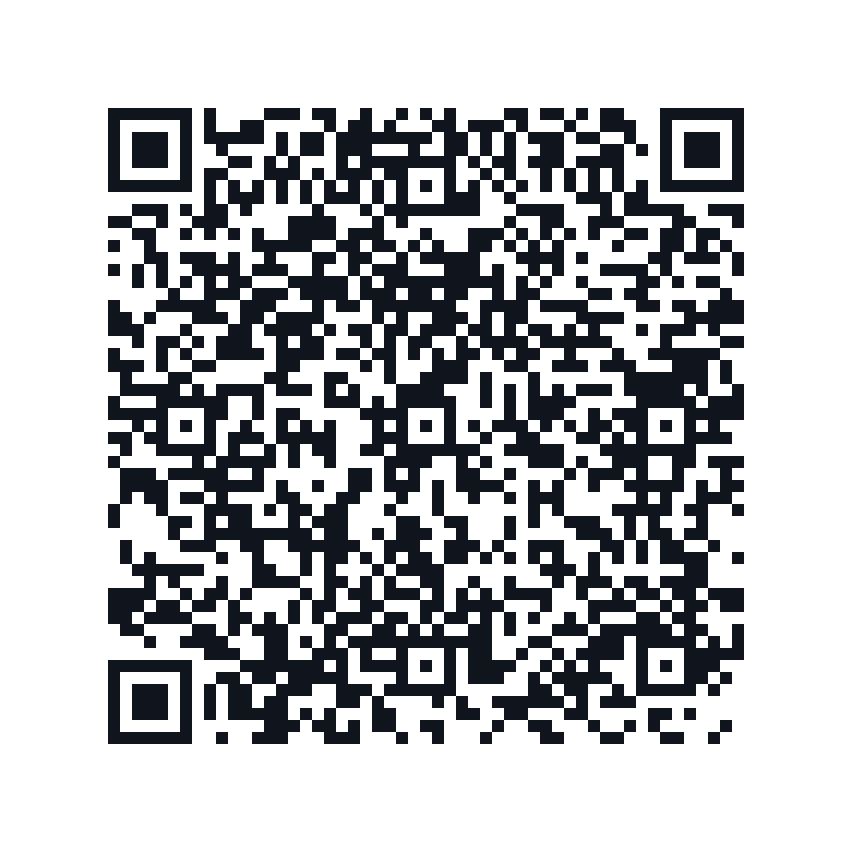
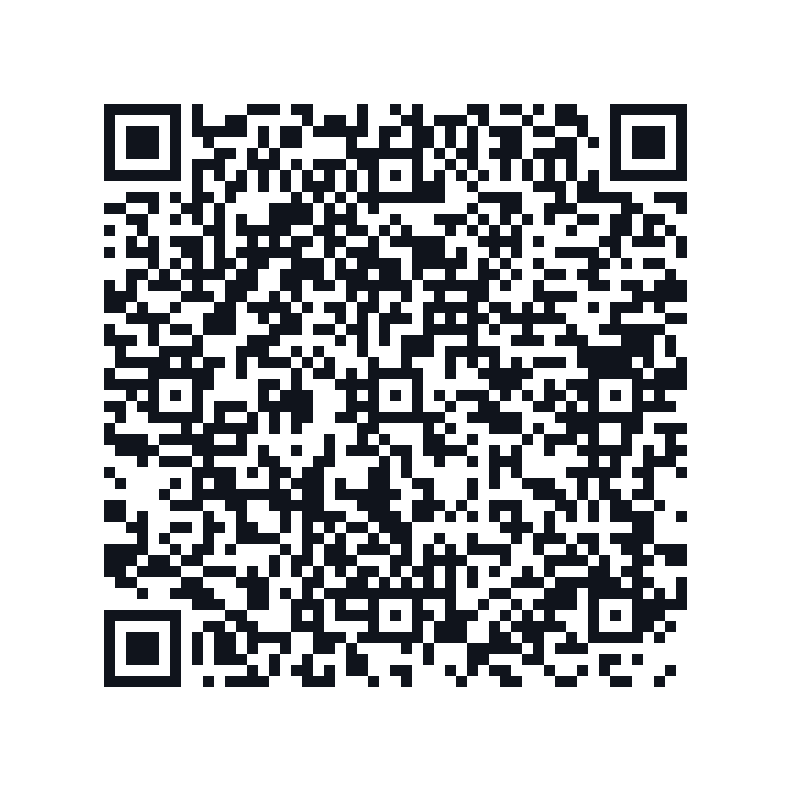
docs: v2.0.4 README 测试统计/扫码章节修正 + 重生成有效二维码(修复卡片非整数缩放导致扫不出)

Changed region(s): [[0.1214, 0.1214, 0.8799, 0.8799], [0.5461, 0.5158, 0.5765, 0.5461]]

diff --git a/README.md b/README.md
@@ -1,11 +1,21 @@
 # 轻听 LiteListen · Android 局域网音乐播放器
 
-> **当前版本：v2.0.3（Jellyfin + 高保真版，推荐安装）** ｜ 仓库：https://github.com/naboluoye/litelisten
-> [v2.0.3 Release 下载页](https://github.com/naboluoye/litelisten/releases/tag/v2.0.3) ｜ [v2.0.2（上一版）](https://github.com/naboluoye/litelisten/releases/tag/v2.0.2) ｜ [v1.0.0（历史骨架版）](https://github.com/naboluoye/litelisten/releases/tag/v1.0.0)
+> **当前版本：v2.0.4（DLNA 群晖连接修复版，推荐安装）** ｜ 仓库：https://github.com/naboluoye/litelisten
+> [v2.0.4 Release 下载页](https://github.com/naboluoye/litelisten/releases/tag/v2.0.4) ｜ [v2.0.3（上一版）](https://github.com/naboluoye/litelisten/releases/tag/v2.0.3) ｜ [v2.0.2](https://github.com/naboluoye/litelisten/releases/tag/v2.0.2) ｜ [v1.0.0（历史骨架版）](https://github.com/naboluoye/litelisten/releases/tag/v1.0.0)
 > 包名 `com.litelisten.player` ｜ minSdk 26（Android 8.0）/ targetSdk 35 ｜ Kotlin 2.1.0 + Compose + Media3 + Room
 > 零账号、零广告、零遥测、零外网请求：所有网络目标在请求发出前强制校验为局域网私网地址。
 
-**版本沿革**：v1.0.0 只是 P0 工程骨架；**v2.0.0 把 P1–P7 全部实现为真实功能**；v2.0.1 修掉「装完曲库为空」「WebDAV 子目录 404」等运行时缺陷；v2.0.2 修复局域网设备发现与根目录浏览；**v2.0.3 新增 Jellyfin 媒体服务器接入、把账号密码前置到添加向导、并加入无损高保真播放，是当前推荐安装的版本**。所有版本使用同一把签名密钥，**已装旧版可直接覆盖升级，数据不丢**。
+**版本沿革**：v1.0.0 只是 P0 工程骨架；**v2.0.0 把 P1–P7 全部实现为真实功能**；v2.0.1 修掉「装完曲库为空」「WebDAV 子目录 404」等运行时缺陷；v2.0.2 修复局域网设备发现与根目录浏览；v2.0.3 新增 Jellyfin 媒体服务器接入、把账号密码前置到添加向导、并加入无损高保真播放；**v2.0.4 修复 Jellyfin 扫描到 0 首、DLNA/群晖连接失败，并加入出品方文案，是当前推荐安装的版本**。所有版本使用同一把签名密钥，**已装旧版可直接覆盖升级，数据不丢**。
+
+### v2.0.4 新增与修复（实机反馈）
+
+| 反馈 | 根因 | 这一版做了什么 |
+|---|---|---|
+| Jellyfin（如 `SRV-2019`）能识别、但「加入曲库」扫描结果是 0 首 | 旧版扫描走层级 `walk`：先列 `/Users/{id}/Views`（媒体库），再逐层按 `ParentId` 浏览。Jellyfin 音乐库顶层往往是 `MusicArtist`/`UserView`，而某些账号配置下 `Views` 或层级 `Items` 查询直接返回空，导致递归到底一个音频都没拿到 | 扫描改成直接调 Jellyfin 的**递归搜索接口** `Recursive=true&IncludeItemTypes=Audio`，一次性拉取该账号能访问的全部音频，完全绕开 Views / 层级结构。手动翻目录浏览仍走层级，不影响使用 |
+| DLNA 媒体服务器（群晖 `swf_nas`）搜得到却连不上，填用户名密码也没用 | ① DLNA/UPnP 是**匿名协议**，旧版添加表单却对 DLNA 也强制要求账号密码，用户被卡死在凭据上；② DLNA 的 SOAP 控制请求默认走系统「默认网络」，手机在「Wi-Fi 无互联网 + 开蜂窝」时默认网络是蜂窝，192.168.x.x 的控制地址全部不可达 | ① DLNA 添加表单**不再要求、也不再发送**账号密码（已加单测锁定，防回退）；② 新增 `LocalNetworkHolder`，发现阶段记录真正的局域网 Network，DLNA 的控制请求、设备描述请求都强制绑定这张网卡，杀进程重启后也能即时解析；③ SOAP 控制请求补 `Accept` / `Connection` 头，增强群晖兼容 |
+| 希望 App 里说明出品方 | — | 设置页「关于」区加入出品方文字：「本软件由风起时出品，功能是为解决手机本地音频的播放，免费无广告，如有需要敬请使用」 |
+
+**DLNA / 群晖实操提示**：群晖 DSM 的「媒体服务器」默认就是匿名 DLNA，直接点「测试连接」即可，不用填凭据；若仍连不上，多半是手机与 NAS 不在同一 Wi-Fi、或路由器开了 AP 隔离，可在添加向导里手动填设备控制地址（形如 `http://192.168.x.x:端口/…/Control`，端口通常是 50001/8200 之类）。
 
 ### v2.0.3 新增与修复（实机反馈）
 
@@ -44,12 +54,12 @@
 
 ---
 
-## 扫码下载（v2.0.3）
+## 扫码下载（v2.0.4）
 
-![轻听 v2.0.3 扫码下载](docs/qr-download.png)
+![轻听 v2.0.4 扫码下载](docs/qr-download.png)
 
-- **扫码直达 APK**：<https://github.com/naboluoye/litelisten/releases/download/v2.0.3/LiteListen-v2.0.3.apk>
-- 版本说明与 SHA-256：[GitHub Release v2.0.3](https://github.com/naboluoye/litelisten/releases/tag/v2.0.3)
+- **扫码直达 APK**：<https://github.com/naboluoye/litelisten/releases/download/v2.0.4/LiteListen-v2.0.4.apk>
+- 版本说明与 SHA-256：[GitHub Release v2.0.4](https://github.com/naboluoye/litelisten/releases/tag/v2.0.4)
 - 可转发的下载卡片：[docs/qr-download-card.png](docs/qr-download-card.png)
 - 下载后在系统里允许「安装未知来源」即可安装。二维码采用 30% 纠错等级并保留静默区，缩放或打印后仍可识别（已用解码器实测校验）。
 
@@ -84,17 +94,17 @@
 
 ---
 
-## 3. 已真实跑通的验证（v2.0.3）
+## 3. 已真实跑通的验证（v2.0.4）
 
 | 项目 | 结果 |
 |---|---|
 | `./gradlew :app:assembleDebug` | ✅ BUILD SUCCESSFUL |
-| `./gradlew :app:testDebugUnitTest` | ✅ **10 个测试类 / 47 条用例，0 失败**（新增 Jellyfin JSON 解析、静态原流地址、端口分类、凭据校验顺序、无损/Hi-Res 判定单测） |
+| `./gradlew :app:testDebugUnitTest` | ✅ **11 个测试类 / 48 条用例，0 失败**（新增 Jellyfin JSON 解析、静态原流地址、端口分类、凭据校验顺序、无损/Hi-Res 判定单测，及 DLNA 免登录单测） |
 | `./gradlew :app:lintDebug` | ✅ 0 error |
-| `./gradlew :app:assembleRelease`（R8 混淆 + 资源压缩） | ✅ BUILD SUCCESSFUL；云端正式签名产物体积与 SHA-256 见 [Release v2.0.3](https://github.com/naboluoye/litelisten/releases/tag/v2.0.3) |
+| `./gradlew :app:assembleRelease`（R8 混淆 + 资源压缩） | ✅ BUILD SUCCESSFUL；云端正式签名产物体积与 SHA-256 见 [Release v2.0.4](https://github.com/naboluoye/litelisten/releases/tag/v2.0.4) |
 | `apksigner verify --verbose`（云端流水线） | ✅ 沿用同一把 RSA 4096 密钥，证书 SHA-256 `cc7b03e7…e7ac`，与 v1.0.0 一致，可覆盖升级 |
 | `ci_guard.py --check all` / `--check apk` | ✅ PASS，合并后 Manifest 权限 = 11 项主动申请 + 2 项已审计库注入 |
-| GitHub Actions `CI` / `Release` | tag `v2.0.3` 触发签名发版，结果见仓库 Actions |
+| GitHub Actions `CI` / `Release` | tag `v2.0.4` 触发签名发版，结果见仓库 Actions |
 
 本机验证使用 JDK 21 + 临时安装的 Android 35 SDK；云端流水线使用 Temurin 17 与 GitHub Secrets 中的正式密钥。
 
@@ -126,7 +136,7 @@ Windows 用 `gradlew.bat`。本地要出签名 Release 包，可复制 `keystore
 
 ```
 push / PR ──> ci.yml ──> 红线守卫 → assembleDebug → 单测 → Lint → 上传产物
-改 version.properties → commit → git tag v2.0.3 → push tag
+改 version.properties → commit → git tag v2.0.4 → push tag
         ▼
 release.yml ──> 版本一致性校验 → 红线守卫 → 单测门禁
              → 从 Secrets 解码 keystore → assembleRelease（强制验签）
@@ -153,9 +163,9 @@ release.yml ──> 版本一致性校验 → 红线守卫 → 单测门禁
 ### 每次发版 SOP
 
 ```bash
-python3 scripts/bump_version.py 2.0.3     # versionCode 自动 +1
-git add version.properties && git commit -m "release: 2.0.3"
-git tag -a v2.0.3 -m "Release 2.0.3"
+python3 scripts/bump_version.py 2.0.4     # versionCode 自动 +1
+git add version.properties && git commit -m "release: 2.0.4"
+git tag -a v2.0.4 -m "Release 2.0.4"
 git push origin main --tags               # 推 tag 后 release.yml 自动跑
 ```
 
@@ -221,10 +231,10 @@ tag 与 `version.properties` 不一致会被硬门禁拒绝。也可在 Actions 
 litelisten/
 ├─ .github/workflows/{ci.yml, release.yml}     CI 门禁 / 签名发版
 ├─ .gitattributes                              gradlew 可执行位与 LF 换行
-├─ docs/{qr-download.png, qr-download-card.png}  v2.0.3 扫码下载图
+├─ docs/{qr-download.png, qr-download-card.png}  v2.0.4 扫码下载图
 ├─ scripts/{ci_guard.py, bump_version.py}      红线守卫 / 版本自增
 ├─ gradle/libs.versions.toml                   唯一依赖版本源
-├─ version.properties                          versionCode=5 / versionName=2.0.3
+├─ version.properties                          versionCode=6 / versionName=2.0.4
 ├─ app/proguard-rules.pro                      R8 / kotlinx.serialization 规则
 └─ app/src/main/java/com/litelisten/player/
    ├─ core/{model, common, designsystem, database, datastore, network, scan, player}
